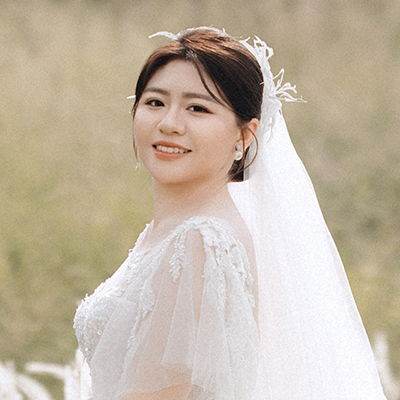
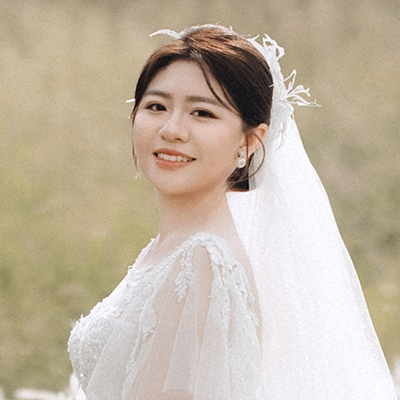
Change the bride's profile picture and add a static cover image

diff --git a/style.css b/style.css
@@ -530,7 +530,7 @@ a {
     /* 1080px 的一半，適合桌面顯示 */
     aspect-ratio: 9 / 16;
     /* 1080 x 1920 的比例 */
-    background: rgba(255, 255, 255, 0.1);
+    background: rgba(224, 237, 255, 0.95);
     backdrop-filter: blur(10px);
     border-radius: 30px;
     overflow: hidden;

diff --git a/donggang.html b/donggang.html
@@ -121,6 +121,7 @@
         muted
         playsinline
         preload="auto"
+        poster="images/wedding-invitation-poster-donggang.jpg"
       >
         <source src="images/wedding-invitation-donggang.mp4" type="video/mp4" />
       </video>

diff --git a/tainan.html b/tainan.html
@@ -117,6 +117,7 @@
         muted
         playsinline
         preload="auto"
+        poster="images/wedding-invitation-poster-tainan.jpg"
       >
         <source src="images/wedding-invitation-tainan.mp4" type="video/mp4" />
       </video>
